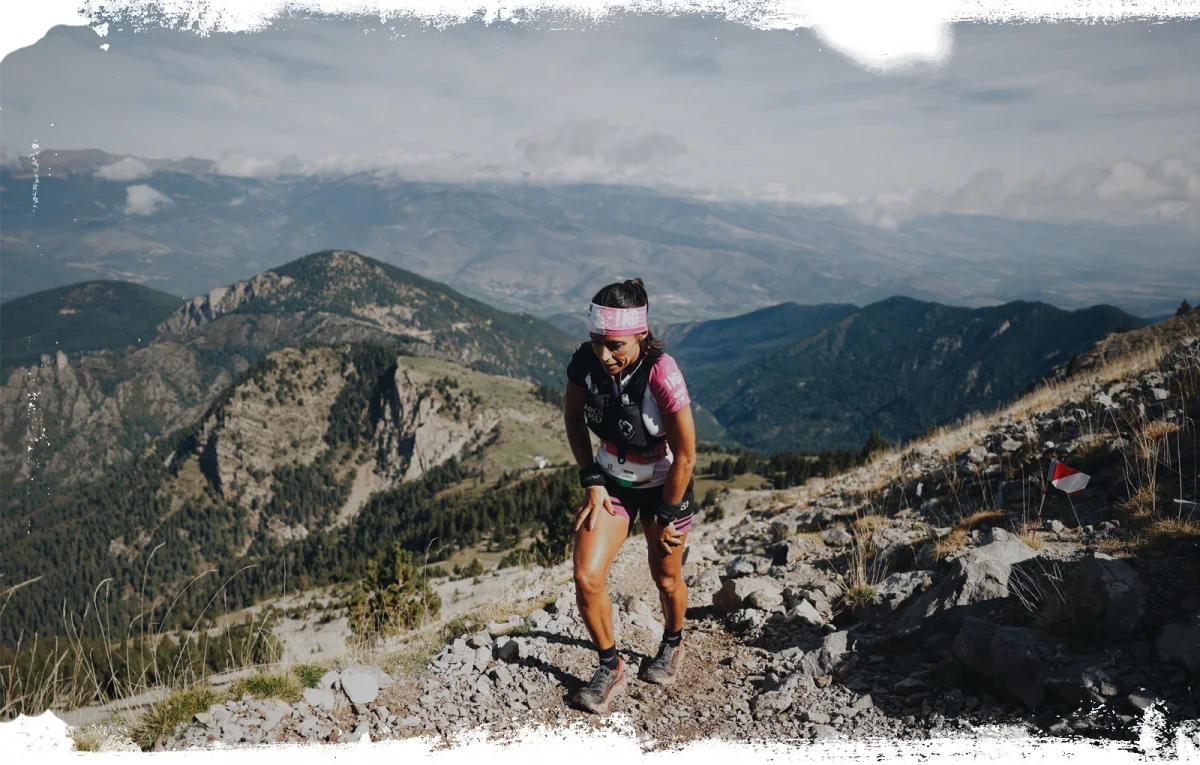
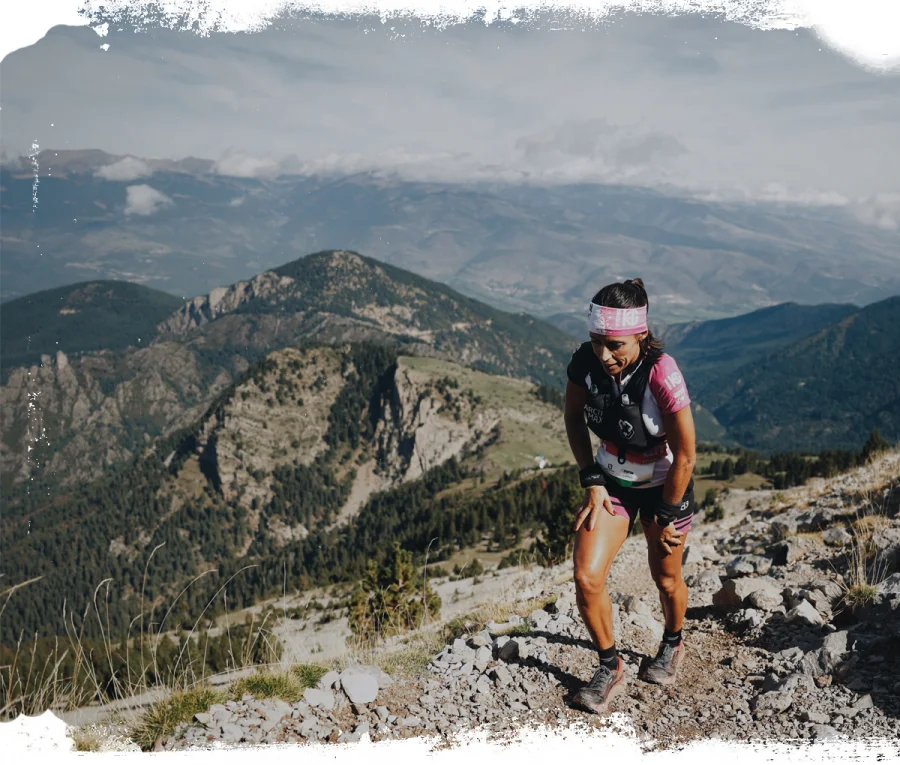
Prioritize event filtering and remove photo lockup

diff --git a/trail-dashboard/index.html b/trail-dashboard/index.html
@@ -1,8 +1,8 @@
 <!doctype html><html lang="en"><head><meta charset="utf-8"><meta name="viewport" content="width=device-width,initial-scale=1"><title>Spartan Trail | Performance Dashboard</title><link rel="icon" type="image/webp" href="assets/spartan-trail-favicon.webp"><link rel="shortcut icon" href="favicon.ico"><script src="https://cdn.jsdelivr.net/npm/chart.js@4.4.3/dist/chart.umd.min.js"></script><style>@import url('https://fonts.googleapis.com/css2?family=Barlow+Condensed:wght@400;500;600;700;800;900&family=Montserrat:wght@500;600;700;800&display=swap');
-:root{--black:#050505;--coal:#101010;--graphite:#1a1a1a;--white:#f7f7f4;--ash:#b5b5b0;--stone:#dadad4;--acid:#00b8b0;--red:#f22d25;--line:#30302d}*{box-sizing:border-box}body{margin:0;background:var(--white);color:var(--black);font-family:Montserrat,Arial,sans-serif}header{position:relative;isolation:isolate;overflow:hidden;background:var(--black);color:#fff;padding:30px max(24px,calc((100vw - 1280px)/2)) 56px;border-bottom:8px solid var(--acid);min-height:390px}header:before{content:'';position:absolute;inset:0;z-index:-3;background:linear-gradient(90deg,rgba(0,0,0,.98) 0%,rgba(0,0,0,.84) 39%,rgba(0,0,0,.24) 100%),linear-gradient(0deg,rgba(0,0,0,.42),transparent 55%),url('assets/trail-athlete-hero.png') center 46%/cover no-repeat}header:after{content:'';position:absolute;z-index:-1;right:8%;bottom:28px;width:120px;height:120px;background:url('assets/spartan-helmet-turquoise.png') center/contain no-repeat;opacity:.8}.topo-lines{position:absolute;z-index:-2;right:0;bottom:0;width:min(51vw,640px);height:100%;background:url('assets/topographic-lines.svg') right bottom/contain no-repeat;opacity:.58;pointer-events:none}.brand{display:flex;align-items:center;justify-content:space-between;gap:25px;border-bottom:1px solid rgba(255,255,255,.25);padding-bottom:16px;margin-bottom:40px}.brand img{display:block;width:min(180px,42vw);height:auto}.brand-tag{font-family:'Barlow Condensed',sans-serif;font-size:16px;font-weight:800;letter-spacing:.12em;text-transform:uppercase;color:var(--acid)}h1{font-family:'Barlow Condensed',Impact,sans-serif;text-transform:uppercase;font-size:clamp(43px,6.4vw,85px);font-weight:900;line-height:1.01;letter-spacing:-.03em;margin:7px 0 20px;max-width:800px}.eyebrow{text-transform:uppercase;color:var(--acid);font-family:'Barlow Condensed',sans-serif;font-weight:800;font-size:17px;letter-spacing:.13em}.sub{color:#d2d2cc;margin:0;max-width:620px;font-size:13px;line-height:1.7}.wrap{max-width:1280px;margin:0 auto;padding:28px 24px 60px}.notice{border-left:6px solid var(--red);background:#e9e9e4;padding:14px 17px;margin-bottom:24px;color:#282825;font-size:12px;line-height:1.5}.filters{display:flex;gap:12px;flex-wrap:wrap;align-items:end;background:var(--black);padding:18px 20px;margin-bottom:22px;border-bottom:4px solid var(--acid)}.field{display:grid;gap:6px;font-family:'Barlow Condensed',sans-serif;text-transform:uppercase;letter-spacing:.08em;font-size:14px;font-weight:700;color:#d8d8d1}select{font:600 13px Montserrat,Arial,sans-serif;text-transform:none;letter-spacing:0;color:#111;min-width:185px;padding:10px;border:0;border-radius:0;background:#fff}.cards{display:grid;grid-template-columns:repeat(4,1fr);gap:12px;margin-bottom:22px}.card{background:var(--black);color:white;border:0;border-top:5px solid var(--acid);padding:18px}.label{color:#c8c8c1;font-family:'Barlow Condensed',sans-serif;font-weight:700;font-size:15px;text-transform:uppercase;letter-spacing:.08em}.value{font-family:'Barlow Condensed',Impact,sans-serif;font-size:46px;font-weight:800;line-height:.95;letter-spacing:-.035em;margin:8px 0}.delta{font-size:12px;font-weight:700}.delta.negative{color:#ff756e}.delta.positive{color:var(--acid)}.small{font-size:11px;color:#d1d1cb}.grid{display:grid;grid-template-columns:1.2fr .8fr;gap:20px}.panel{background:#fff;border:1px solid #d8d8d2;border-top:5px solid var(--black);padding:19px;min-width:0}.panel h2{font-family:'Barlow Condensed',Impact,sans-serif;text-transform:uppercase;font-size:26px;letter-spacing:.01em;line-height:1;margin:0 0 6px}.panel p{margin:0 0 16px;color:#676761;font-size:11px;line-height:1.5}canvas{max-height:410px}table{width:100%;border-collapse:collapse;font-size:12px}th{font-family:'Barlow Condensed',sans-serif;text-transform:uppercase;letter-spacing:.06em;text-align:left;color:#5f5f59;font-size:13px;border-bottom:2px solid #111;padding:10px 8px;white-space:nowrap}td{border-bottom:1px solid #e3e3de;padding:11px 8px}tbody tr:hover{background:#f0f0e9}.num{text-align:right}.pill{font-weight:800;font-size:11px}.pill.up{color:#27720b}.pill.down{color:#d12a25}.pill.flat{color:#676761}@media(max-width:800px){header{padding:22px 20px 40px}.brand{margin-bottom:30px}.brand-tag{font-size:13px}.cards{grid-template-columns:repeat(2,1fr)}.grid{grid-template-columns:1fr}.wrap{padding:20px 15px}.filters{padding:15px}select{min-width:150px}}@media(max-width:440px){.cards{grid-template-columns:1fr}.brand-tag{display:none}}</style></head><body><header><div class="topo-lines" aria-hidden="true"></div><div class="brand"><img src="https://www.spartantrail.com/wp-content/themes/yootheme/cache/3c/st_logo_white-3c0dfe91.webp" alt="Spartan Trail"><div class="brand-tag">Performance Intelligence</div></div><div class="eyebrow">2026 Trail Performance</div><h1>Trail KPI<br>Command Center</h1><p class="sub">A normalized, event-level command center for registrations and net revenue versus last year.</p></header><main class="wrap"><div class="notice"><strong>Private tracker feed.</strong> Data refreshes automatically from the Spartan Trail Reporting Dashboard. Comparisons are normalized to the same days-to-race point.</div><section class="filters"><label class="field">Event type<select id="type"><option value="All">All comparable events</option><option value="OCR Weekend">OCR weekends</option><option value="Standalone">Standalone</option></select></label><label class="field">Performance<select id="performance"><option value="All">All performance</option><option value="Behind">Behind last year</option><option value="Ahead">Ahead / on pace</option></select></label><label class="field">Sort events by<select id="sort"><option value="regVar">Registration variance</option><option value="revVar">Revenue variance</option><option value="date">Event date</option><option value="name">Event name</option></select></label></section><section class="cards" id="cards"></section><section class="grid"><div class="panel"><h2>Registration performance by event</h2><p>Registration variance versus prior year at the comparable selling point.</p><canvas id="bar"></canvas></div><div class="panel"><h2>2026 vs. 2025 registrations</h2><p>Each dot is a comparable event. Above the diagonal = ahead.</p><canvas id="scatter"></canvas></div></section><section class="panel" style="margin-top:20px"><h2>Event opportunity table</h2><p>Click an event row to spotlight its performance.</p><div style="overflow:auto"><table><thead><tr><th>Event</th><th>Type</th><th>Date</th><th class="num">Days to race</th><th class="num">2026 reg</th><th class="num">2025 reg</th><th class="num">Gap</th><th class="num">Reg YoY</th><th class="num">Rev YoY</th></tr></thead><tbody id="rows"></tbody></table></div></section><p class="foot">Source: <em>Spartan Trail Reporting Dashboard</em>. Events not comparable year over year are excluded.</p></main><script src="data.js"></script><script>
+:root{--black:#050505;--coal:#101010;--graphite:#1a1a1a;--white:#f7f7f4;--ash:#b5b5b0;--stone:#dadad4;--acid:#00b8b0;--red:#f22d25;--line:#30302d}*{box-sizing:border-box}body{margin:0;background:var(--white);color:var(--black);font-family:Montserrat,Arial,sans-serif}header{position:relative;isolation:isolate;overflow:hidden;background:var(--black);color:#fff;padding:30px max(24px,calc((100vw - 1280px)/2)) 56px;border-bottom:8px solid var(--acid);min-height:390px}header:before{content:'';position:absolute;inset:0;z-index:-3;background:linear-gradient(90deg,rgba(0,0,0,.98) 0%,rgba(0,0,0,.84) 39%,rgba(0,0,0,.24) 100%),linear-gradient(0deg,rgba(0,0,0,.42),transparent 55%),url('assets/trail-athlete-hero.png') center 46%/cover no-repeat}header:after{content:'';position:absolute;z-index:-1;right:8%;bottom:28px;width:120px;height:120px;background:url('assets/spartan-helmet-turquoise.png') center/contain no-repeat;opacity:.8}.topo-lines{position:absolute;z-index:-2;right:0;bottom:0;width:min(51vw,640px);height:100%;background:url('assets/topographic-lines.svg') right bottom/100% 100% no-repeat;opacity:.58;pointer-events:none}.brand{display:flex;align-items:center;justify-content:space-between;gap:25px;border-bottom:1px solid rgba(255,255,255,.25);padding-bottom:16px;margin-bottom:40px}.brand img{display:block;width:min(180px,42vw);height:auto}.brand-tag{font-family:'Barlow Condensed',sans-serif;font-size:16px;font-weight:800;letter-spacing:.12em;text-transform:uppercase;color:var(--acid)}h1{font-family:'Barlow Condensed',Impact,sans-serif;text-transform:uppercase;font-size:clamp(43px,6.4vw,85px);font-weight:900;line-height:1.01;letter-spacing:-.03em;margin:7px 0 20px;max-width:800px}.eyebrow{text-transform:uppercase;color:var(--acid);font-family:'Barlow Condensed',sans-serif;font-weight:800;font-size:17px;letter-spacing:.13em}.sub{color:#d2d2cc;margin:0;max-width:620px;font-size:13px;line-height:1.7}.wrap{max-width:1280px;margin:0 auto;padding:28px 24px 60px}.notice{border-left:6px solid var(--red);background:#e9e9e4;padding:14px 17px;margin-bottom:24px;color:#282825;font-size:12px;line-height:1.5}.filters{display:flex;gap:12px;flex-wrap:wrap;align-items:end;background:var(--black);padding:18px 20px;margin-bottom:22px;border-bottom:4px solid var(--acid)}.field{display:grid;gap:6px;font-family:'Barlow Condensed',sans-serif;text-transform:uppercase;letter-spacing:.08em;font-size:14px;font-weight:700;color:#d8d8d1}select{font:600 13px Montserrat,Arial,sans-serif;text-transform:none;letter-spacing:0;color:#111;min-width:185px;padding:10px;border:0;border-radius:0;background:#fff}.cards{display:grid;grid-template-columns:repeat(4,1fr);gap:12px;margin-bottom:22px}.card{background:var(--black);color:white;border:0;border-top:5px solid var(--acid);padding:18px}.label{color:#c8c8c1;font-family:'Barlow Condensed',sans-serif;font-weight:700;font-size:15px;text-transform:uppercase;letter-spacing:.08em}.value{font-family:'Barlow Condensed',Impact,sans-serif;font-size:46px;font-weight:800;line-height:.95;letter-spacing:-.035em;margin:8px 0}.delta{font-size:12px;font-weight:700}.delta.negative{color:#ff756e}.delta.positive{color:var(--acid)}.small{font-size:11px;color:#d1d1cb}.grid{display:grid;grid-template-columns:1.2fr .8fr;gap:20px}.panel{background:#fff;border:1px solid #d8d8d2;border-top:5px solid var(--black);padding:19px;min-width:0}.panel h2{font-family:'Barlow Condensed',Impact,sans-serif;text-transform:uppercase;font-size:26px;letter-spacing:.01em;line-height:1;margin:0 0 6px}.panel p{margin:0 0 16px;color:#676761;font-size:11px;line-height:1.5}canvas{max-height:410px}table{width:100%;border-collapse:collapse;font-size:12px}th{font-family:'Barlow Condensed',sans-serif;text-transform:uppercase;letter-spacing:.06em;text-align:left;color:#5f5f59;font-size:13px;border-bottom:2px solid #111;padding:10px 8px;white-space:nowrap}td{border-bottom:1px solid #e3e3de;padding:11px 8px}tbody tr:hover{background:#f0f0e9}.num{text-align:right}.pill{font-weight:800;font-size:11px}.pill.up{color:#27720b}.pill.down{color:#d12a25}.pill.flat{color:#676761}@media(max-width:800px){header{padding:22px 20px 40px}.brand{margin-bottom:30px}.brand-tag{font-size:13px}.cards{grid-template-columns:repeat(2,1fr)}.grid{grid-template-columns:1fr}.wrap{padding:20px 15px}.filters{padding:15px}select{min-width:150px}}@media(max-width:440px){.cards{grid-template-columns:1fr}.brand-tag{display:none}}</style></head><body><header><div class="topo-lines" aria-hidden="true"></div><div class="brand"><img src="https://www.spartantrail.com/wp-content/themes/yootheme/cache/3c/st_logo_white-3c0dfe91.webp" alt="Spartan Trail"><div class="brand-tag">Performance Intelligence</div></div><div class="eyebrow">2026 Trail Performance</div><h1>Trail KPI<br>Command Center</h1><p class="sub">A normalized, event-level command center for registrations and net revenue versus last year.</p></header><main class="wrap"><div class="notice"><strong>Private tracker feed.</strong> Data refreshes automatically from the Spartan Trail Reporting Dashboard. Comparisons are normalized to the same days-to-race point.</div><section class="filters"><label class="field">Event<select id="event"><option value="All">All comparable events</option></select></label><label class="field">Event type<select id="type"><option value="All">All comparable events</option><option value="OCR Weekend">OCR weekends</option><option value="Standalone">Standalone</option></select></label><label class="field">Performance<select id="performance"><option value="All">All performance</option><option value="Behind">Behind last year</option><option value="Ahead">Ahead / on pace</option></select></label><label class="field">Sort events by<select id="sort"><option value="regVar">Registration variance</option><option value="revVar">Revenue variance</option><option value="date">Event date</option><option value="name">Event name</option></select></label></section><section class="cards" id="cards"></section><section class="grid"><div class="panel"><h2>Registration performance by event</h2><p>Registration variance versus prior year at the comparable selling point.</p><canvas id="bar"></canvas></div><div class="panel"><h2>2026 vs. 2025 registrations</h2><p>Each dot is a comparable event. Above the diagonal = ahead.</p><canvas id="scatter"></canvas></div></section><section class="panel" style="margin-top:20px"><h2>Event opportunity table</h2><p>Click an event row to spotlight its performance.</p><div style="overflow:auto"><table><thead><tr><th>Event</th><th>Type</th><th>Date</th><th class="num">Days to race</th><th class="num">2026 reg</th><th class="num">2025 reg</th><th class="num">Gap</th><th class="num">Reg YoY</th><th class="num">Rev YoY</th></tr></thead><tbody id="rows"></tbody></table></div></section><p class="foot">Source: <em>Spartan Trail Reporting Dashboard</em>. Events not comparable year over year are excluded.</p></main><script src="data.js"></script><script>
 const events=window.TRAIL_EVENTS||[
 {name:'Gator Dash Trail Run',type:'OCR Weekend',date:'Mar 1',days:0,r26:241,r25:238,rv:1.26,rev:17492,rev25:21018,revv:-16.78},{name:'Armadillo Trail Run',type:'OCR Weekend',date:'May 17',days:0,r26:275,r25:434,rv:-36.64,rev:23488,rev25:40076,revv:-41.39},{name:'Gorgonio View Trail Run',type:'OCR Weekend',date:'May 17',days:0,r26:232,r25:389,rv:-40.36,rev:18313,rev25:36028,revv:-49.17},{name:'Toro Park Trail Run',type:'OCR Weekend',date:'May 31',days:0,r26:284,r25:371,rv:-23.45,rev:28083,rev25:37566,revv:-25.24},{name:'Blue Mountain Trail Run',type:'OCR Weekend',date:'Jul 12',days:-3,r26:328,r25:430,rv:-23.72,rev:25034,rev25:34922,revv:-28.32},{name:'Wasatch Scramble Trail Run',type:'OCR Weekend',date:'Jul 12',days:-3,r26:161,r25:188,rv:-14.36,rev:13538,rev25:16096,revv:-15.89},{name:'Calabogie Peaks Trail Run',type:'OCR Weekend',date:'Aug 23',days:-45,r26:226,r25:213,rv:6.10,rev:16186,rev25:13540,revv:19.54},{name:'Country Roads Trail Run',type:'OCR Weekend',date:'Aug 30',days:-52,r26:120,r25:104,rv:15.38,rev:10667,rev25:7776,revv:37.18},{name:'Rancho Ramble Trail Run',type:'OCR Weekend',date:'Nov 8',days:-122,r26:78,r25:78,rv:0,rev:5827,rev25:6548,revv:-11.01},{name:'Bear Mountain Trail Challenge',type:'Standalone',date:'May 2',days:0,r26:1133,r25:1500,rv:-24.47,rev:94622,rev25:130312,revv:-27.39},{name:'Whitewater Trail Challenge',type:'Standalone',date:'Jun 20',days:0,r26:586,r25:652,rv:-10.12,rev:54803,rev25:60796,revv:-9.86},{name:'Lake Placid Trail Challenge',type:'Standalone',date:'Aug 8',days:-30,r26:167,r25:232,rv:-28.02,rev:14492,rev25:18677,revv:-22.41},{name:'San Jose Trail Challenge',type:'Standalone',date:'Sep 26',days:-79,r26:250,r25:243,rv:2.88,rev:17224,rev25:16297,revv:5.68}];
 let bar,scatter;const money=n=>'$'+Math.round(n).toLocaleString(),pct=n=>(n>0?'+':'')+n.toFixed(1)+'%',pill=n=>`<span class="pill ${n>0?'up':n<0?'down':'flat'}">${pct(n)}</span>`;
-function filtered(){let a=events.filter(e=>(type.value==='All'||e.type===type.value)&&(performance.value==='All'||performance.value==='Behind'?e.rv<0:e.rv>=0));const s=sort.value;return a.sort((a,b)=>s==='name'?a.name.localeCompare(b.name):s==='date'?a.days-b.days:s==='revVar'?a.revv-b.revv:a.rv-b.rv)}
-function render(){const a=filtered(),r26=a.reduce((s,e)=>s+e.r26,0),r25=a.reduce((s,e)=>s+e.r25,0),v=r26/r25*100-100,rev=a.reduce((s,e)=>s+e.rev,0),rev25=a.reduce((s,e)=>s+e.rev25,0),rv=rev/rev25*100-100,gap=r26-r25;cards.innerHTML=`<div class="card"><div class="label">2026 registrations</div><div class="value">${r26.toLocaleString()}</div><div class="delta ${v<0?'negative':'positive'}">${pct(v)} vs. 2025</div></div><div class="card"><div class="label">Registration gap</div><div class="value">${Math.abs(gap).toLocaleString()}</div><div class="delta ${gap<0?'negative':'positive'}">${gap<0?'needed to match LY':'ahead of LY'}</div></div><div class="card"><div class="label">2026 net revenue</div><div class="value">${money(rev)}</div><div class="delta ${rv<0?'negative':'positive'}">${pct(rv)} vs. 2025</div></div><div class="card"><div class="label">Comparable events</div><div class="value">${a.length}</div><div class="small">of ${events.length} in baseline</div></div>`;rows.innerHTML=a.map(e=>`<tr onclick="spotlight('${e.name.replace(/'/g,"\\'")}')" style="cursor:pointer"><td><strong>${e.name}</strong></td><td>${e.type}</td><td>${e.date}</td><td class="num">${Math.abs(e.days)}${e.days<0?' out':''}</td><td class="num">${e.r26}</td><td class="num">${e.r25}</td><td class="num">${e.r26-e.r25}</td><td class="num">${pill(e.rv)}</td><td class="num">${pill(e.revv)}</td></tr>`).join(''); if(bar)bar.destroy();if(scatter)scatter.destroy();bar=new Chart(document.getElementById('bar'),{type:'bar',data:{labels:a.map(e=>e.name.replace(' Trail ',' ')),datasets:[{label:'Registration YoY',data:a.map(e=>e.rv),backgroundColor:a.map(e=>e.rv>=0?'#00b8b0':'#f22d25'),borderRadius:5}]},options:{indexAxis:'y',plugins:{legend:{display:false},tooltip:{callbacks:{label:c=>pct(c.raw)}}},scales:{x:{ticks:{callback:v=>v+'%'},grid:{color:'#e5e5df'}},y:{grid:{display:false}}}}});scatter=new Chart(document.getElementById('scatter'),{type:'scatter',data:{datasets:[{data:a.map(e=>({x:e.r25,y:e.r26,label:e.name})),backgroundColor:a.map(e=>e.rv>=0?'#00b8b0':'#f22d25'),pointRadius:7}]},options:{plugins:{legend:{display:false},tooltip:{callbacks:{label:c=>c.raw.label+': '+c.raw.y+' vs '+c.raw.x}}},scales:{x:{title:{display:true,text:'2025 registrations'},beginAtZero:true},y:{title:{display:true,text:'2026 registrations'},beginAtZero:true}}}})}function spotlight(n){const e=events.find(e=>e.name===n);type.value=e.type;performance.value=e.rv<0?'Behind':'Ahead';sort.value='regVar';render();window.scrollTo({top:0,behavior:'smooth'})}['type','performance','sort'].forEach(i=>document.getElementById(i).addEventListener('change',render));render();
+const eventFilter=document.getElementById('event');function buildEventFilter(){eventFilter.innerHTML='<option value="All">All comparable events</option>'+events.slice().sort((a,b)=>a.name.localeCompare(b.name)).map(e=>`<option value="${e.name}">${e.name}</option>`).join('')}buildEventFilter();function filtered(){let a=events.filter(e=>(eventFilter.value==='All'||e.name===eventFilter.value)&&(type.value==='All'||e.type===type.value)&&(performance.value==='All'||performance.value==='Behind'?e.rv<0:e.rv>=0));const s=sort.value;return a.sort((a,b)=>s==='name'?a.name.localeCompare(b.name):s==='date'?a.days-b.days:s==='revVar'?a.revv-b.revv:a.rv-b.rv)}
+function render(){const a=filtered(),r26=a.reduce((s,e)=>s+e.r26,0),r25=a.reduce((s,e)=>s+e.r25,0),v=r26/r25*100-100,rev=a.reduce((s,e)=>s+e.rev,0),rev25=a.reduce((s,e)=>s+e.rev25,0),rv=rev/rev25*100-100,gap=r26-r25;cards.innerHTML=`<div class="card"><div class="label">2026 registrations</div><div class="value">${r26.toLocaleString()}</div><div class="delta ${v<0?'negative':'positive'}">${pct(v)} vs. 2025</div></div><div class="card"><div class="label">Registration gap</div><div class="value">${Math.abs(gap).toLocaleString()}</div><div class="delta ${gap<0?'negative':'positive'}">${gap<0?'needed to match LY':'ahead of LY'}</div></div><div class="card"><div class="label">2026 net revenue</div><div class="value">${money(rev)}</div><div class="delta ${rv<0?'negative':'positive'}">${pct(rv)} vs. 2025</div></div><div class="card"><div class="label">Comparable events</div><div class="value">${a.length}</div><div class="small">of ${events.length} in baseline</div></div>`;rows.innerHTML=a.map(e=>`<tr onclick="spotlight('${e.name.replace(/'/g,"\\'")}')" style="cursor:pointer"><td><strong>${e.name}</strong></td><td>${e.type}</td><td>${e.date}</td><td class="num">${Math.abs(e.days)}${e.days<0?' out':''}</td><td class="num">${e.r26}</td><td class="num">${e.r25}</td><td class="num">${e.r26-e.r25}</td><td class="num">${pill(e.rv)}</td><td class="num">${pill(e.revv)}</td></tr>`).join(''); if(bar)bar.destroy();if(scatter)scatter.destroy();bar=new Chart(document.getElementById('bar'),{type:'bar',data:{labels:a.map(e=>e.name.replace(' Trail ',' ')),datasets:[{label:'Registration YoY',data:a.map(e=>e.rv),backgroundColor:a.map(e=>e.rv>=0?'#00b8b0':'#f22d25'),borderRadius:5}]},options:{indexAxis:'y',plugins:{legend:{display:false},tooltip:{callbacks:{label:c=>pct(c.raw)}}},scales:{x:{ticks:{callback:v=>v+'%'},grid:{color:'#e5e5df'}},y:{grid:{display:false}}}}});scatter=new Chart(document.getElementById('scatter'),{type:'scatter',data:{datasets:[{data:a.map(e=>({x:e.r25,y:e.r26,label:e.name})),backgroundColor:a.map(e=>e.rv>=0?'#00b8b0':'#f22d25'),pointRadius:7}]},options:{plugins:{legend:{display:false},tooltip:{callbacks:{label:c=>c.raw.label+': '+c.raw.y+' vs '+c.raw.x}}},scales:{x:{title:{display:true,text:'2025 registrations'},beginAtZero:true},y:{title:{display:true,text:'2026 registrations'},beginAtZero:true}}}})}function spotlight(n){const e=events.find(e=>e.name===n);eventFilter.value=e.name;type.value=e.type;performance.value=e.rv<0?'Behind':'Ahead';sort.value='regVar';render();window.scrollTo({top:0,behavior:'smooth'})}['event','type','performance','sort'].forEach(i=>document.getElementById(i).addEventListener('change',render));render();
 </script></body></html>